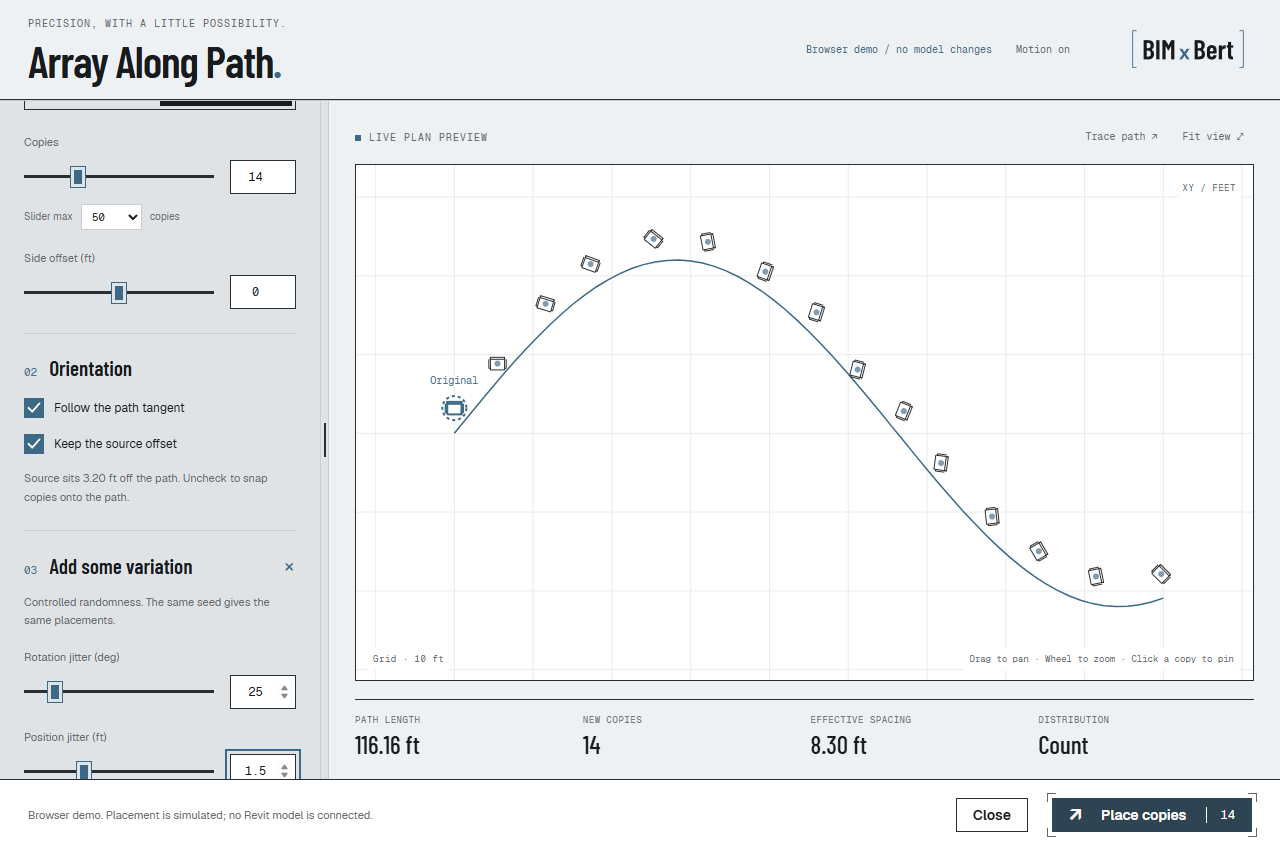
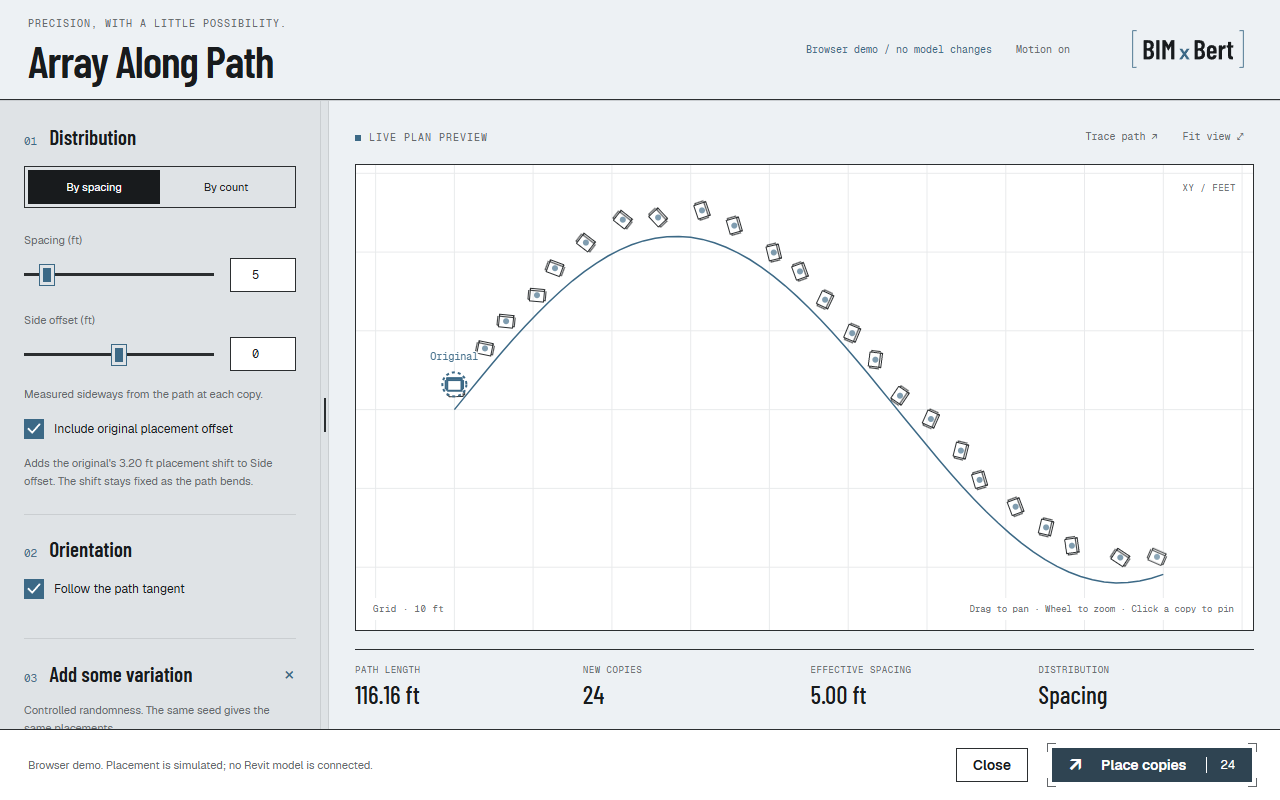
Clarify original placement offset and simplify array title

diff --git a/tests/test_array_along_path.py b/tests/test_array_along_path.py
@@ -47,7 +47,7 @@ class PlanTests(unittest.TestCase):
         summary, lines = plan_module().result_description("Furniture - Standard",19,1,settings,112.53)
         self.assertEqual(summary,"19 copies placed along 112.53 ft")
         for expected in ("Path length: 112.53 ft", "Distribution: 19 copies, evenly spaced",
-                         "Side offset: 2.50 ft", "Follow path tangent: On", "Keep source offset: On",
+                         "Side offset: 2.50 ft", "Follow path tangent: On", "Include original placement offset: On",
                          "Copies placed: 19", "Skipped on top of the source: 1"):
             self.assertIn(expected,lines)
         self.assertNotIn("rot_jit", "\n".join(lines))

diff --git a/docs/handoffs/array-along-path-motion-2026-10-02.md b/docs/handoffs/array-along-path-motion-2026-10-02.md
@@ -117,3 +117,10 @@ Draft PR: [#10](https://github.com/robmintzes/formwork/pull/10).
   check that scanned all toolbar tools. Restricted it to bridge/startup code;
   added combined Array/bridge coverage and a negative injected-bridge-transaction
   case. All 32 Array/guide/MCP tests and 23 generated extension tests pass.
+- 2026-10-02: Renamed the offset checkbox to Include original placement offset
+  and moved it beside Side offset in Distribution. Helper text describes the
+  measured fixed shift when included and makes clear that side offset/position
+  variation still apply when excluded. Added accessible helper associations and
+  matching result wording. Removed the period after the tool title. Ten focused
+  tests pass; Edge checks cover on/off helper text, Space operation, fixed source,
+  preserved side offset and responsive layout without horizontal overflow.

diff --git a/docs/verification/array-along-path/README.md b/docs/verification/array-along-path/README.md
@@ -44,6 +44,11 @@ still needs live verification.
   Integration coverage allows writes in the ribbon tool and still rejects an
   injected transaction in the MCP bridge. Root validators, US English and diff
   checks passed. The sandbox matches its inputs and passes static validation.
+- Offset clarity revision: Include original placement offset sits beside Side
+  offset in Distribution. On/off helper text distinguishes the fixed original
+  shift from the path-relative side offset. The title has no trailing period.
+  Ten focused tests and Edge checks passed for helper updates, keyboard Space,
+  unchanged original/side offset and responsive layout. Images below are refreshed.
 
 ![Count with starting offset copy](count-offset.png)
 
